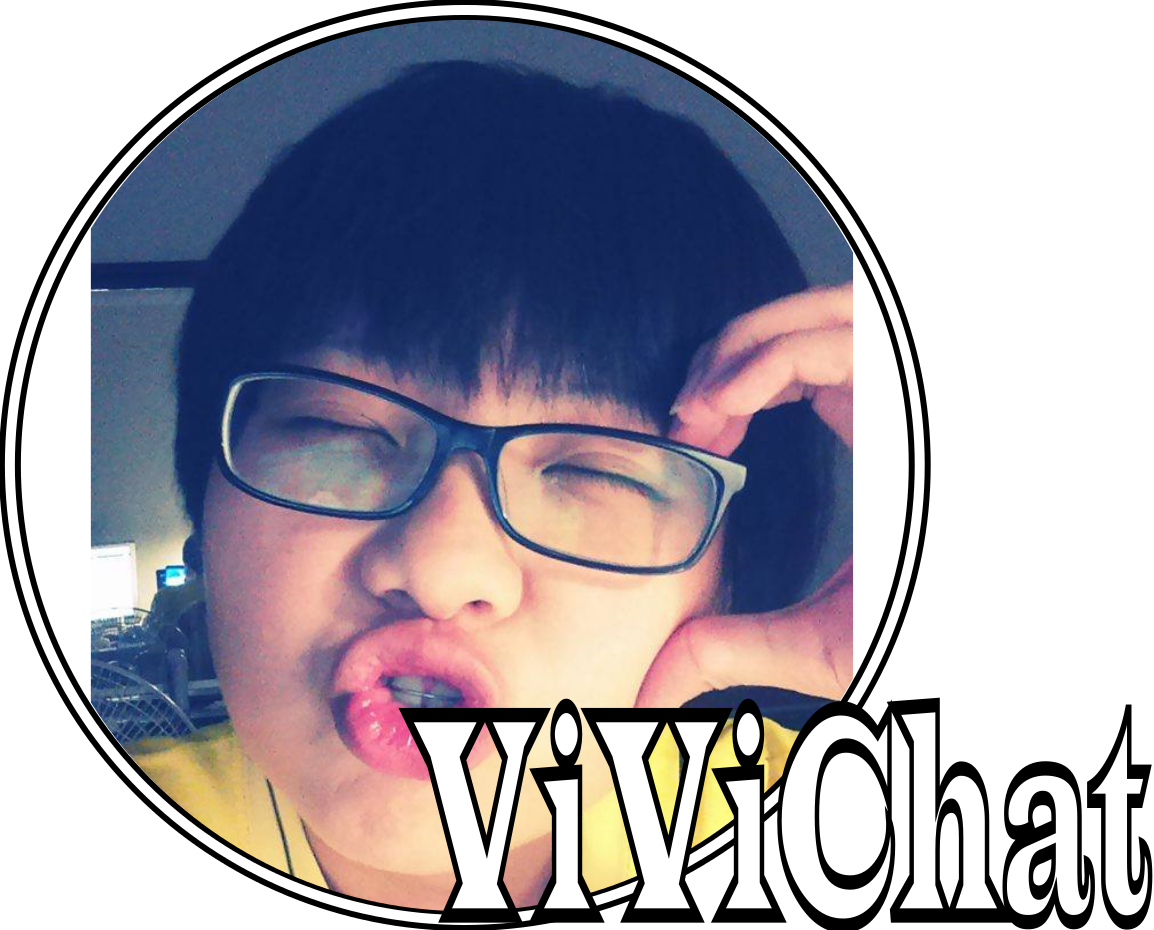
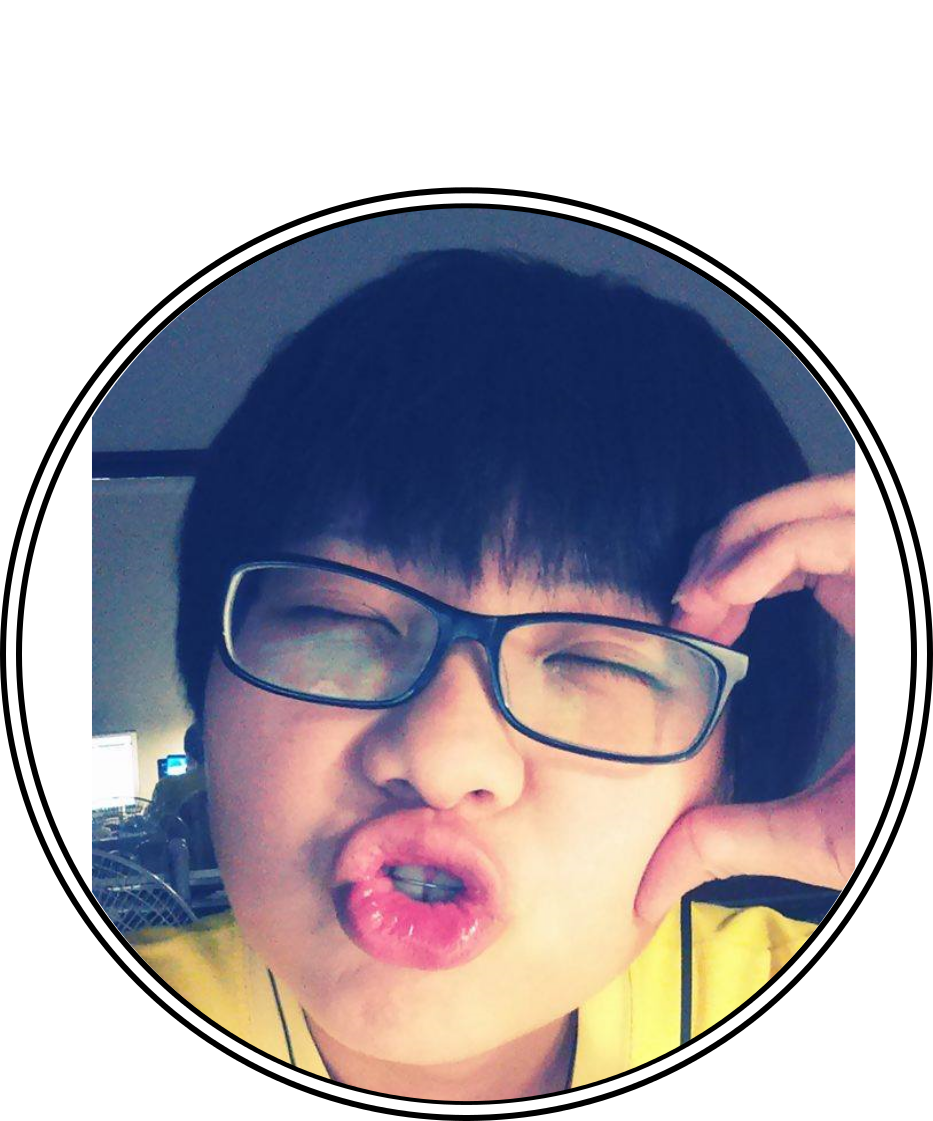
updata login page

diff --git a/src/chat/ChatPage.java b/src/chat/ChatPage.java
@@ -9,6 +9,8 @@ public class ChatPage {
 	
 	private JLayeredPane basicPane;
 	private JLabel background;
+	private JLayeredPane upPane;
+	private JLayeredPane downPane;
 	
 	public ChatPage(){
 		basicPane = new JLayeredPane();
@@ -20,6 +22,15 @@ public class ChatPage {
 		background.setBounds(0, 0, 400, 600);
 		basicPane.add(background,JLayeredPane.DEFAULT_LAYER);
 		
+		upPane = new JLayeredPane();
+		upPane.setBounds(0,0,400,45);
+		upPane.setLayout(null);
+		basicPane.add(upPane,JLayeredPane.MODAL_LAYER);
+		
+		downPane = new JLayeredPane();
+		downPane.setBounds(0,500,400,100);
+		downPane.setLayout(null);
+		basicPane.add(downPane,JLayeredPane.MODAL_LAYER);
 	}
 	
 	public JLayeredPane getPane(){

diff --git a/src/chat/Login.java b/src/chat/Login.java
@@ -21,10 +21,10 @@ public class Login {
 		basicPane.setLayout(null);
 		
 		ImageIcon iconPicture = new ImageIcon("src/photo/icon.png");
-		Image tempIconPicture = iconPicture.getImage().getScaledInstance(245, 200, iconPicture.getImage().SCALE_DEFAULT);
+		Image tempIconPicture = iconPicture.getImage().getScaledInstance(200, 225, iconPicture.getImage().SCALE_DEFAULT);
 		
 		icon = new JLabel(new ImageIcon(tempIconPicture));
-		icon.setBounds(90,75,245,200);
+		icon.setBounds(100,75,200,225);
 		basicPane.add(icon,JLayeredPane.MODAL_LAYER);
 		
 		ImageIcon backgroundPicture = new ImageIcon("src/photo/background.png");

diff --git a/src/chat/MainWindow.java b/src/chat/MainWindow.java
@@ -15,7 +15,7 @@ public class MainWindow {
 		
 		Login login = new Login();
 		ChatPage chatPage = new ChatPage();
-		window.setLayeredPane(chatPage.getPane());
+		window.setLayeredPane(login.getPane());
 		window.setVisible(true);
 		
 	}
